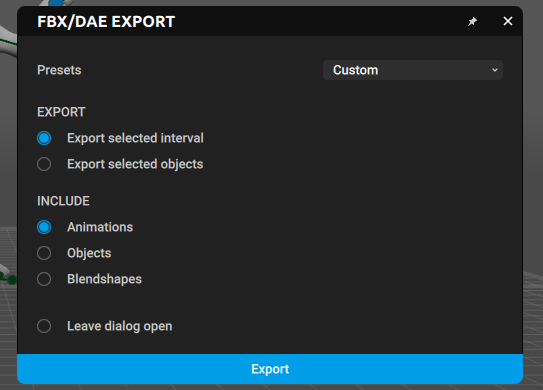
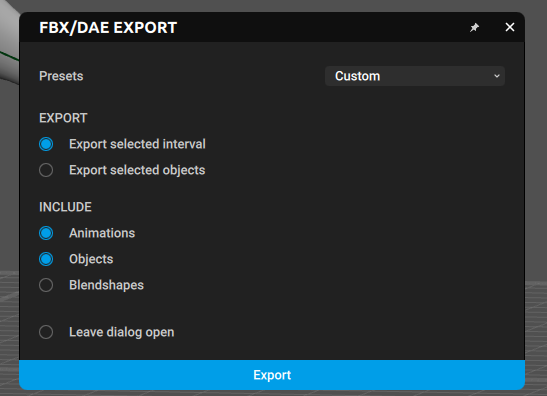
- cascuader notes

diff --git a/cascadeur/issues.md b/cascadeur/issues.md
@@ -26,3 +26,16 @@
 - the model which was exported with a specific `Pose` and armature, when animated and reimported in blender, fails to match its original armature
 - fix is always export and import with mesh
 - <img src="./images/issues/armature-mismatch-fix.png">
+
+# in place or in-place animations issues
+
+## Slow speed of animations
+
+- do not use uncheck `export translate animations` in cascuader, it slows down the animations
+  - this [tutorial](https://youtube.com/shorts/NsT2dHwPiwI?si=AriDlxWcL4IGq-TL) recommends it, but keep it enabled
+
+## Position of the charactor model using it is odd
+
+- <img src="./images/issues/anims-cascauder-extra-root-channel.gif">
+- delete the extra channel just below the root channel
+  - in the above example its `basic-player`

diff --git a/cascadeur/auto-rig.md b/cascadeur/auto-rig.md
@@ -1,0 +1,3 @@
+# Auto Rig
+
+- <img src="./images/auto-rig/cascuader-auto-rig.gif">